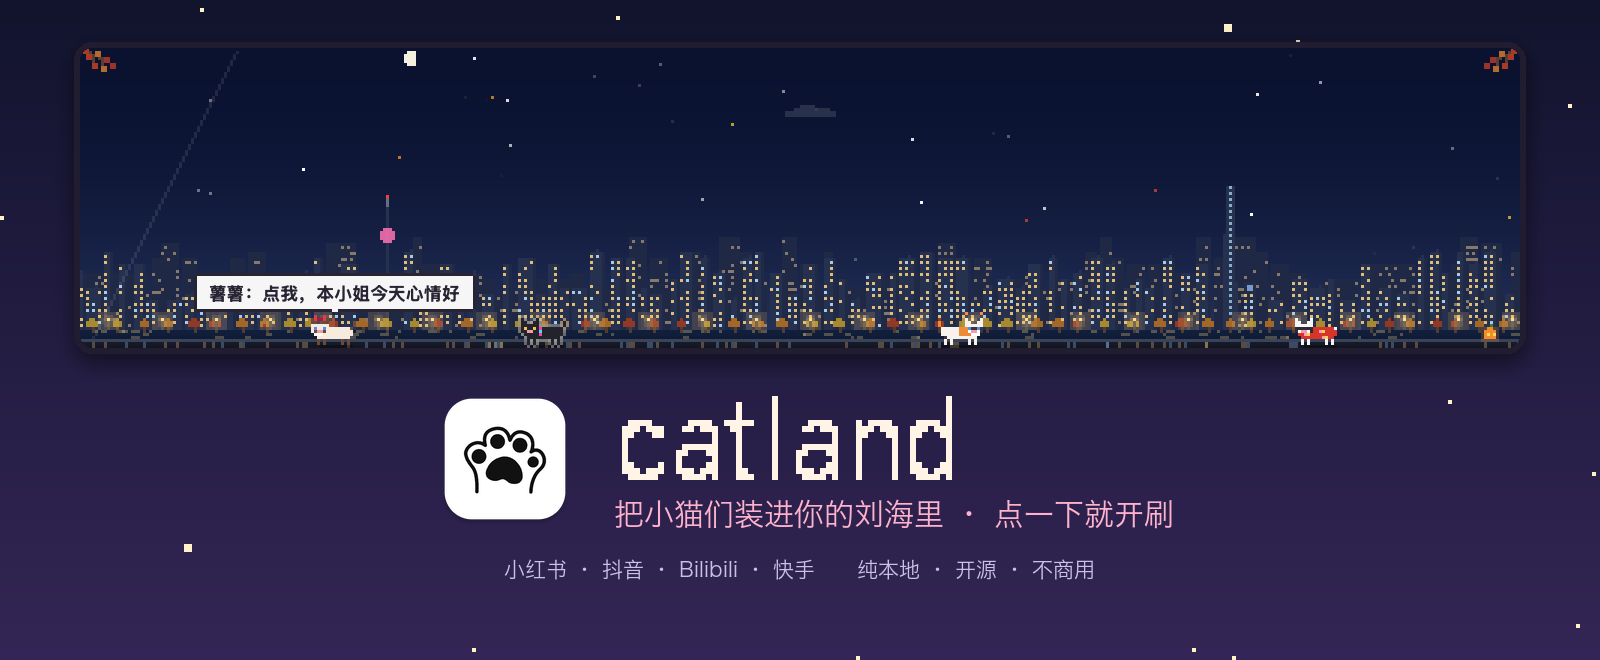
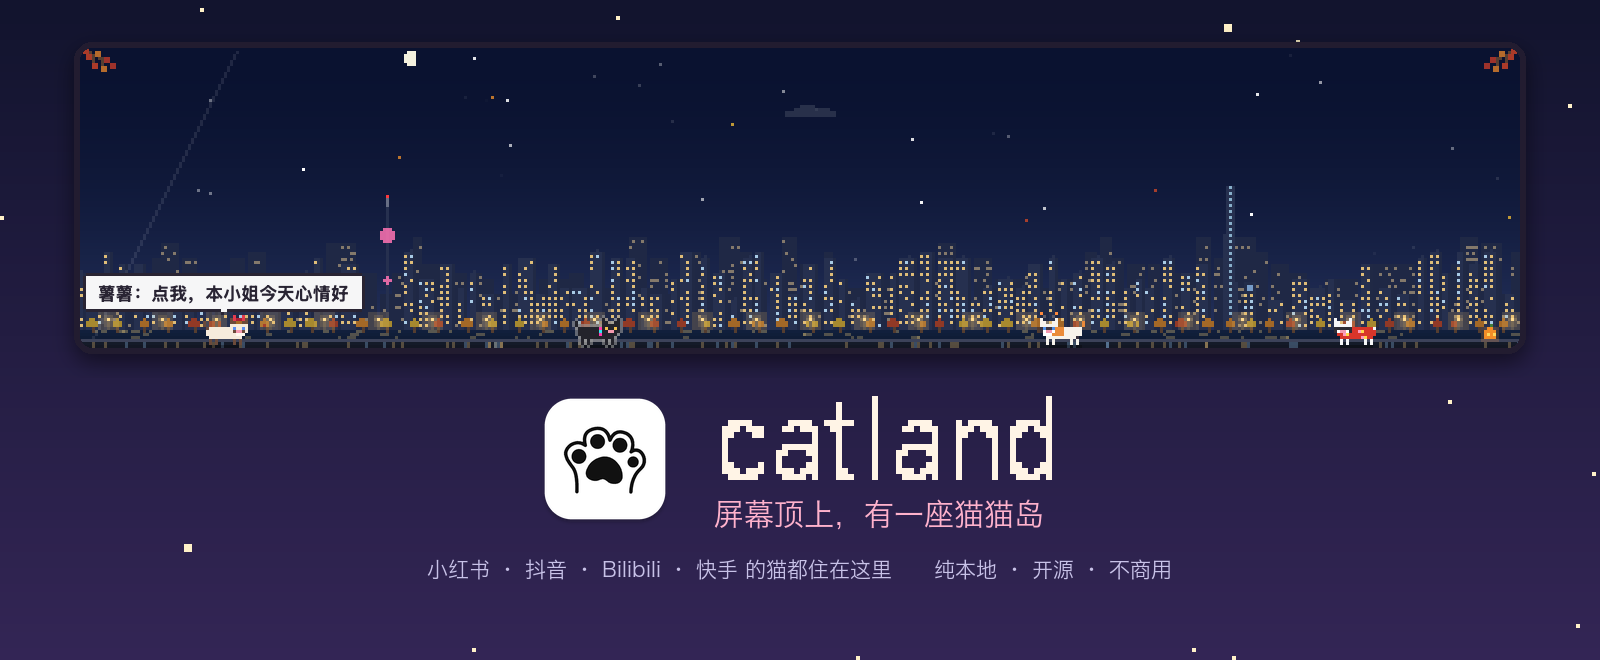
Rewrite the README as a story; seal 0.2.1
The README now opens with the moment it is for (eight minutes of build
time), introduces the cats as the island's residents, and drops the
feature-list tone and the notch wording in favour of the cat island.
Banner tagline and scene collage (now with Beijing) are refreshed.
Version 0.2.1 (build 5).

Generated with [Devin](https://devin.ai)

diff --git a/scripts/make_readme_art.py b/scripts/make_readme_art.py
@@ -78,7 +78,7 @@ def banner(snaps: Path) -> None:
     icon = Image.open(BRAND / "icon-1024.png").resize((150, 150), Image.LANCZOS)
     title = pixel_text("catland", 18, 6, CREAM + (255,))
     f_tag = ImageFont.truetype(CJK, 30)
-    tag = "把小猫们装进你的刘海里 · 点一下就开刷"
+    tag = "屏幕顶上，有一座猫猫岛"
     text_w = max(title.width, int(d.textlength(tag, font=f_tag)))
     x0 = (W - (icon.width + 30 + text_w)) // 2
     y0 = 18 + hero.height + 6
@@ -87,13 +87,13 @@ def banner(snaps: Path) -> None:
     img.alpha_composite(title, (tx, y0 + 6))
     d.text((tx + 4, y0 + 6 + title.height + 12), tag, font=f_tag, fill=PINK)
     f_sub = ImageFont.truetype(CJK, 21)
-    sub = "小红书 · 抖音 · Bilibili · 快手      纯本地 · 开源 · 不商用"
+    sub = "小红书 · 抖音 · Bilibili · 快手 的猫都住在这里      纯本地 · 开源 · 不商用"
     d.text(((W - d.textlength(sub, font=f_sub)) // 2, y0 + icon.height + 24), sub, font=f_sub, fill=LAVENDER)
     img.convert("RGB").save(BRAND / "banner.png", optimize=True)
 
 
 SCENES = [
-    ("autumn-afternoon", "秋日午后 · 上海"), ("dusk", "傍晚 · 天色渐暗"),
+    ("autumn-afternoon", "上海 · 秋日午后"), ("beijing-dusk", "北京 · 傍晚"),
     ("rain-night", "雨夜"), ("winter-snow", "冬天 · 下雪"),
     ("event-sakura", "事件 · 樱花雨"), ("event-meteor", "事件 · 流星雨"),
     ("event-fireworks", "事件 · 花火大会"), ("event-lightshow", "事件 · 滨海湾灯光秀"),

diff --git a/README.md b/README.md
@@ -1,135 +1,135 @@
 <div align="center">
 
-<img src="assets/brand/banner.png" width="100%" alt="catland — 把小猫们装进你的刘海里，点一下就开刷">
+<img src="assets/brand/banner.png" width="100%" alt="catland：屏幕顶上的猫猫岛">
 
 <br>
 
-**MacBook 的刘海，是你离摸鱼最近的地方。**<br>
-小红书 · 抖音 · Bilibili · 快手，点一下刘海就开刷。
+**屏幕顶上，有一座猫猫岛。**<br>
+岛上住着你常刷的那几只猫。累了，就点一下它们。
 
 <br>
 
-[![macOS](https://img.shields.io/badge/macOS-14%2B-000000?style=for-the-badge&logo=apple&logoColor=white)](#-下载安装)
-[![License: MIT](https://img.shields.io/badge/license-MIT-A6E3A1?style=for-the-badge)](LICENSE)
-[![Local First](https://img.shields.io/badge/数据-只在本机-F38BA8?style=for-the-badge)](#-隐私纯本地)
-[![Powered by catbus](https://img.shields.io/badge/powered%20by-catbus-FAB387?style=for-the-badge)](https://github.com/cv-cat/catbus)
-[![Agent Ready](https://img.shields.io/badge/AI%20Agent-可直接构建-CBA6F7?style=for-the-badge)](#-让-agent-帮你从源码构建)
+[![macOS](https://img.shields.io/badge/macOS-14%2B-000000?style=flat-square&logo=apple&logoColor=white)](#安装)
+[![License: MIT](https://img.shields.io/badge/license-MIT-A6E3A1?style=flat-square)](LICENSE)
+[![Local only](https://img.shields.io/badge/数据-只留在你的%20Mac-F38BA8?style=flat-square)](#你的东西只留在你的-mac-上)
+[![Powered by catbus](https://img.shields.io/badge/powered%20by-catbus-FAB387?style=flat-square)](https://github.com/cv-cat/catbus)
 
-[下载安装](#-下载安装) · [它能做什么](#-它能做什么) · [刘海里的小世界](#-刘海里的小世界) · [从源码构建](#-从源码构建) · [开发者文档](docs/development.md)
+[安装](#安装) · [岛上的居民](#岛上的居民) · [窗外的天](#窗外和你同一片天) · [从源码构建](#从源码构建) · [开发者文档](docs/development.md)
 
 </div>
 
 <br>
 
-> [catbus](https://github.com/cv-cat/catbus)（猫巴士）把各个平台的小猫装上同一辆车；**catland 把它们放进同一片 land**——你 MacBook 屏幕顶上的那块刘海（land 也谐音 is**land**，灵动岛）。
->
-> 写代码等编译、跑模型等结果、开会等别人说完……这些碎片时间里，你不想拿起手机、不想切窗口、更不想一个个打开 App。**鼠标往刘海上一放，点一下，就开刷。**
+下午三点，编译还要跑八分钟。
 
-## ✨ 它能做什么
+你不想拿手机，一拿起来就是半小时；也不想切到浏览器，那一排标签页只会提醒你还有多少事没做完。你只是想喘口气。
 
-<table>
-<tr>
-<td width="50%" valign="top">
+于是你把鼠标往屏幕顶上轻轻一推。
 
-### 🐾 刘海就是入口
-平时刘海里是一面像素风落地窗：窗外是你所在城市的天际线，你接入的平台小猫在窗台上散步、打盹、钻进刘海里的「猫洞」。鼠标移上去小猫会蹦一下跟你打招呼，**点一下就展开成刷刷面板**，再点外面就收起。老板来了？`⌥ Esc` 一键收起并暂停。
+那里有一座小岛。窗外是你所在城市此刻的天色，四只猫在窗台上晒太阳，有一只正在舔爪子。戴蝴蝶结的布偶猫抬眼看你：
 
-</td>
-<td width="50%" valign="top">
+> 薯薯：还不点？品味有待提高哦
 
-### 📱 多平台混排，手感对标短视频 App
-小红书、抖音、Bilibili、快手的推荐流混在一条流里，**各平台均匀轮换（同一平台最多连着 3 条）、看过的不再出现**。封面先行、前后条预加载，划到下一条几乎零等待；触控板一滑一页，进度条可以拖动跳转，图集左右翻页，评论抽屉一点就开。某个平台被限流了？它悄悄歇一会儿，你照常刷别的。
+点一下，小岛展开。小红书、抖音、Bilibili、快手的推荐揉成一条，一条一条往下刷。八分钟后编译跑完，你点一下别处，小岛收回去，什么都没发生过。
 
-</td>
-</tr>
-<tr>
-<td width="50%" valign="top">
+这就是 catland。
 
-### ❤ 点赞收藏只留在本地
-在 catland 里点赞、收藏，**不会回写到原平台**，不会被推荐算法拿去「更懂你」，也不会出现在你的主页。所有平台的喜欢，收在同一个地方。
+<br>
 
-</td>
-<td width="50%" valign="top">
-
-### 🔒 纯本地，没有服务器
-没有 catland 账号、没有云端、没有遥测。登录态在你 Mac 的 `~/.catbus/`，点赞 / 收藏 / 历史在本机数据库，App 和本地服务之间连网络端口都不开。
-
-</td>
-</tr>
-</table>
-
-## 🐱 每个平台一只猫
+## 岛上的居民
 
 <div align="center">
-<img src="assets/brand/cats.png" width="88%" alt="平台小猫：薯薯、抖抖、bibi、铁铁和纸箱里的箱箱">
+<img src="assets/brand/cats.png" width="92%" alt="薯薯、抖抖、bibi、铁铁，和纸箱里的箱箱">
 </div>
 
-接入哪个平台，它的猫就住进你的刘海；看一眼刘海，就知道哪些平台连着：
+你接入一个平台，就有一只猫搬上岛。
 
-- **薯薯**（小红书）：戴红蝴蝶结的布偶猫，精致又毒舌——「老板画的饼，本小姐不吃」
-- **抖抖**（抖音）：戴酷炫项圈的黑猫，潮酷上头——「家人们谁懂啊，又上头了」
-- **bibi**（Bilibili）：顶着小电视天线的三花猫，傲娇二次元——「才、才不是想让你点我」
-- **铁铁**（快手）：穿花棉袄的奶牛猫，豪爽东北大姐——「老板画饼？大姐给你烙个真的」
-- **箱箱**：还一个平台都没接时，纸箱里只有这只小奶猫，等你把大家领回家；接上第一个平台，她会开心地蹦一下
+- **薯薯**，小红书家的布偶猫，头上一只红蝴蝶结。精致，嘴巴有点毒，看到好东西还是会第一个分享给你。「老板画的饼，本小姐不吃。」
+- **抖抖**，抖音家的黑猫，戴一条会发光的项圈。什么梗都知道，什么 BGM 都会哼。「家人们谁懂啊，又上头了。」
+- **bibi**，Bilibili 家的三花，脑袋上顶着两根小电视天线。嘴硬心软，熬夜追番。「才、才不是想让你点我。」
+- **铁铁**，快手家的奶牛猫，常年一件东北花棉袄。嗓门大，热心肠，护短。「老板画饼？大姐给你烙个真的。」
 
-平台被风控时，它的猫会趴下打盹冒 zzz（「我累了，休息一会儿再来」），恢复后自己醒来；登录失效或断开，它就不在刘海里了。
+一个平台都还没接的时候，岛上只有**箱箱**，一只缩在纸箱里的小奶猫，扒着箱沿等你把大家接回来。等第一只猫搬上岛，她会在箱子里开心地蹦一下。
 
-## 🌆 刘海里的小世界
+看一眼小岛，你就知道哪个平台还连着：谁被平台限流了，谁就趴下打盹，头上冒 zzz，过一会儿自己醒来；谁的登录过期了，谁就暂时不在岛上。
 
-刘海不只是入口，也是一个会陪你上班的小世界。我们把天气、季节、节日、彩蛋、事件统称为**表现层**，全部手绘像素风：
+它们还会跟你聊天。鼠标停在岛上，猫们轮流开口，各说各的：
+
+> 铁铁：今天活儿干了 63%，麻溜的<br>
+> bibi：这么晚了，快睡啦笨蛋<br>
+> 薯薯：还有 3 天发工资，忍住别剁手<br>
+> 抖抖：最后一条，真的最后一条
+
+## 刷起来是什么感觉
+
+和你在手机上刷短视频一样，只是不用抬头。
+
+几个平台的推荐流混在一起，轮着来，同一个平台最多连着刷到三条；看过的不会再出现。下一条早在你看上一条的时候就准备好了，划过去几乎不用等。触控板一滑就是一页，视频的进度条可以拖，暂停时能看到播到哪儿了；图文笔记左右翻页，评论一点就开。
+
+某个平台突然不给内容了，你不会看到报错。那只猫去打个盹，你照常刷其他平台的，等它恢复，它的内容会自己回来。
+
+老板走过来时，按 `⌥ Esc`。小岛立刻收起，视频暂停。
+
+## 窗外，和你同一片天
 
 <div align="center">
-<img src="assets/brand/scenes.png" width="88%" alt="刘海里的场景：四季、昼夜、天气与事件">
+<img src="assets/brand/scenes.png" width="92%" alt="小岛窗外的四季、昼夜、天气和夜空里的事件">
 </div>
 
-- **跟你同一片天**：用 Mac 的系统定位（不看 IP，挂 VPN 也准），窗外的日出日落、晴雨雪雾跟你所在城市一致；上海能看到东方明珠，新加坡能看到金沙和摩天轮。
-- **四季会变**：春天飘樱花、夏夜有萤火虫、秋天落叶、冬天窗户结霜、挂满冰凌。
-- **节日有仪式感**：春节挂红灯笼、中秋一整晚的金色满月、万圣节南瓜灯、圣诞彩灯。
-- **会发生大事件**：真实流星雨极大日的流星雨、夏夜花火大会、滨海湾灯光秀、樱花雨、热气球节……**小猫会提前 6 小时预告**，事件开始时大家一起坐下来看窗外。
-- **随机彩蛋**：雨天海湾里漂着纸船，工作日上午窗台上有杯冒热气的咖啡，偶尔……会有 UFO。
-- **懂你的猫**：悬停刘海，小猫们轮流用自己的口吻跟你聊两句——「铁铁：今天活儿干了 63%，麻溜的」「bibi：这么晚了，快睡啦笨蛋」「薯薯：还有 3 天发工资，忍住别剁手」。
+小岛的窗外不是一张壁纸。
 
-## 📦 下载安装
+太阳什么时候落、外面是晴是雨，都跟你所在的城市一致。位置用的是 Mac 的系统定位，挂着 VPN 也不会把你算到别的国家去。在北京，窗外是央视大楼和中国尊；在上海，是东方明珠和上海中心；在新加坡，是金沙酒店和摩天轮。其他城市的朋友，岛上会随机住进北京或上海的天际线，天色和天气还是你那里的。
 
-1. 到 [Releases](https://github.com/Aries-ld/catland/releases) 下载对应芯片的 DMG：
-   - Apple 芯片（M1 / M2 / M3 / M4…）：`catland-x.y.z-macos-arm64.dmg`
-   - Intel 芯片：暂未提供安装包，请按下面的「从源码构建」在本机打包
-2. 打开 DMG，把 **catland** 拖进「应用程序」。
-3. 在「应用程序」里打开 catland。安装包经过 Apple 开发者签名与公证，和其他正规 App 一样双击即可打开。
-4. 打开后刘海里会出现小猫。点一下刘海 → **连接平台**：
-   - 小红书、Bilibili、快手：用手机 App 扫码。
-   - 抖音：在弹出的抖音官方登录页里扫码或用验证码登录，完成后自动连接。
+窗外跟着季节换衣服：春天飘樱花，夏夜有萤火虫，秋天的树一点点变红，冬天窗角结霜、挂冰凌。春节挂灯笼，中秋有一整晚的满月。
 
-> App 里已经自带运行所需的一切（Node 运行时、本地服务、catbus），不需要另外安装任何东西。需要 macOS 14 及以上，带刘海的 MacBook 体验最好；没有刘海的 Mac 也能用，小猫会住在屏幕顶部正中。
+偶尔，天上会有事情发生：真实流星雨极大日那晚的流星雨、夏夜的花火大会、滨海湾的灯光秀。猫们会提前几个小时告诉你「今晚 22:00 有流星雨哦」，到了时间，它们会停下手里的事，一起坐着看窗外。
 
-## ⌨ 快捷键
+还有一些不会提前说的小事。雨天的海湾里漂着一只纸船；工作日的上午，窗台上放着一杯冒热气的咖啡；运气好的话，你会看见 UFO。
 
-| 操作 | 方式 |
+## 你的东西，只留在你的 Mac 上
+
+catland 没有服务器，不需要注册账号，不收集任何数据。
+
+你在 catland 里点的赞、收藏的视频，只存在你自己的电脑里，不会同步回原来的平台，不会被拿去训练推荐，也不会出现在你的主页上。所有平台的「喜欢」，都收在同一个地方。
+
+你的平台登录信息保存在本机的 `~/.catbus/`。catland 对外只连你接入的平台；唯一的例外是窗外的天气，查询时只发送精确到约 10 公里的坐标，不想要可以在设置里关掉。
+
+## 安装
+
+1. 到 [Releases](https://github.com/Aries-ld/catland/releases/latest) 下载 `catland-x.y.z-macos-arm64.dmg`（Apple 芯片）。Intel 芯片的 Mac 暂时没有安装包，可以按下面的步骤[从源码构建](#从源码构建)。
+2. 打开 DMG，把 catland 拖进「应用程序」。安装包经过 Apple 签名和公证，双击就能打开。
+3. 屏幕顶上会出现箱箱。点一下她，选「连接平台」：
+   - 小红书、Bilibili、快手：用手机 App 扫一下二维码。
+   - 抖音：在弹出的抖音官方页面里扫码或用验证码登录。
+
+需要 macOS 14 或更新的系统。App 已经带好了运行需要的一切，不用另外装任何东西。在 MacBook 上，小岛就长在屏幕顶端摄像头的两侧；外接显示器和其他 Mac 上，它住在屏幕顶部正中间。
+
+### 快捷键
+
+| 做什么 | 怎么做 |
 |---|---|
-| 呼出 / 收起 | 点刘海，或 `⌥ \`` |
-| 老板键 | `⌥ Esc`：立刻收起并暂停 |
-| 翻页 | 触控板上下滑、鼠标滚轮、`↑` `↓` / `J` `K` |
-| 图集翻页 | 触控板左右滑、`←` `→` |
-| 点赞 / 收藏 / 评论 | 双击画面或 `L` / `S` / `C` |
+| 打开 / 收起小岛 | 点一下，或 `⌥ \`` |
+| 老板来了 | `⌥ Esc`，立刻收起并暂停 |
+| 下一条 / 上一条 | 触控板上下滑、滚轮、`↑` `↓` 或 `J` `K` |
+| 图集翻页 | 触控板左右滑、左右拖动、`←` `→` |
+| 点赞 / 收藏 / 评论 | 双击画面，或 `L` / `S` / `C` |
 | 暂停 / 静音 | `空格` / `M`（默认静音） |
 
-## 🧩 支持的平台
+### 现在能接哪些平台
 
-| 平台 | 登录方式 | 状态 |
+| 平台 | 怎么登录 | 状态 |
 |---|---|---|
-| 小红书 | 扫码 | ✅ 已实测 |
-| Bilibili | 扫码 | ✅ 已实测 |
-| 抖音 | 官方登录页（扫码 / 验证码） | ✅ 已实测 |
-| 快手 | 扫码 | ✅ 已实测 |
-| 微博 | — | ⏸ 暂未开放：catbus 还不支持微博推荐流，能登录但刷不出内容 |
-| X · TikTok | — | ⏸ 暂未开放：很多账号用 Google / Apple 登录，而这两家不允许在 App 内登录（TikTok 还需要特定网络）。等「浏览器助手」能把浏览器里的登录态自动交给 catland 后再开放 |
-| 淘宝 · 京东 · 闲鱼 | — | 🚧 电商比价，下个版本 |
+| 小红书 | 扫码 | 可用 |
+| Bilibili | 扫码 | 可用 |
+| 快手 | 扫码 | 可用 |
+| 抖音 | 官方页面扫码或验证码 | 可用 |
+| 微博 | | 暂未开放：catbus 还拿不到微博的推荐流 |
+| X、TikTok | | 暂未开放：Google / Apple 账号没法在 App 里登录，正在做浏览器助手 |
+| 淘宝、京东、闲鱼 | | 下一个版本：跨平台搜商品、比价 |
 
-平台能力来自 [catbus](https://github.com/cv-cat/catbus)，它支持的平台 catland 都可以逐步接进来。
+## 从源码构建
 
-## 🛠 从源码构建
-
-不想用打包好的 DMG，或者想自己改？在你的 Mac 上几分钟就能构建：
+想自己改，或者用的是 Intel 芯片的 Mac？几分钟就能在本机构建：
 
 ```bash
 # 准备（只需一次）：Xcode 16+、Homebrew
@@ -137,51 +137,42 @@ brew install node xcodegen             # Node 需要 26 及以上
 git clone https://github.com/Aries-ld/catland.git && cd catland
 (cd apps/sidecar && npm install)
 
-# 方式一：直接运行开发版
+# 直接运行开发版
 apps/macos/scripts/run.sh
 
-# 方式二：打包成和 Releases 一样的 DMG（产物在 dist/）
+# 或者打包成和 Releases 一样的 DMG（产物在 dist/）
 scripts/package-dmg.sh
 ```
 
-### 🤖 让 Agent 帮你从源码构建
-
-把下面这段话直接发给 Claude Code / Codex / Cursor 等编码 Agent 就行：
+也可以把下面这段话交给 Claude Code、Codex、Cursor 这类编码助手，让它替你做：
 
 ```text
 请在我的 Mac 上从源码构建并安装 catland（https://github.com/Aries-ld/catland）：
 1. 确认已安装 Xcode 16+；用 Homebrew 安装 node（26 及以上）和 xcodegen。
 2. 克隆仓库，在 apps/sidecar 里执行 npm install。
 3. 在仓库根目录执行 scripts/package-dmg.sh，按我的芯片架构打包 DMG（产物在 dist/）。
-4. 挂载 DMG，把 Catland.app 拷到 /Applications，执行 xattr -dr com.apple.quarantine /Applications/Catland.app，然后打开它。
+4. 挂载 DMG，把 Catland.app 拷到 /Applications 并打开它。
 仓库里的 AGENTS.md 和 docs/development.md 有项目约定和更多命令。
 ```
 
-## 🔒 隐私：纯本地
+## 几句要说清楚的
 
-- **没有 catland 服务器、账号、统计或崩溃上报。**
-- 网络请求只发往你连接的平台；唯一的例外是窗外天气：新加坡用 NEA，其他地区用 Open-Meteo，只发送约 10 km 精度的坐标，设置里可以关掉。
-- 登录态保存在 `~/.catbus/`，本地数据在 `~/Library/Application Support/catland/`，日志在 `~/Library/Logs/catland/`（会自动打码 cookie、token）。
-- 网页登录用的是一次性的隔离浏览器环境，窗口关闭即清空；catland 不读取你浏览器里保存的任何数据。
+- catland 是一个开源的个人项目，**仅供学习研究，不做任何商业用途**。内容来自各平台的公开接口（通过 catbus），请遵守各平台的用户协议，不要高频请求。
+- 各平台的名称和图标属于它们各自的所有者，这里只用来标明内容来源，catland 与这些平台没有任何关系。
+- catland 不会替你在平台上点赞、评论、关注或发布任何东西。
 
-## ⚠ 声明
+## 接下来
 
-- 本项目**仅供学习研究，不商用**。内容来自各平台公开接口（经 catbus），请遵守各平台的用户协议，合理使用、不要高频请求。
-- 各平台名称与图标归其所有者所有，本项目仅用于标识内容来源，与这些平台无任何关联。
-- catland 不会代你在平台上点赞、评论、关注或发布；这些写操作容易触发平台风控，默认不调用。
+- 电商：在淘宝、京东、闲鱼之间一起搜商品、比价格
+- 一个浏览器助手，让 X、TikTok 也能住进岛上
+- 更多城市的窗外，更多会在夜里发生的事
+- 导出和导入你的本地收藏
 
-## 🗺 接下来
+## 谢谢
 
-- [ ] 电商板块：淘宝 / 京东 / 闲鱼商品搜索与跨平台比价
-- [ ] 宣传视频与动图演示
-- [ ] 更多城市的窗外地标与地貌（北京、深圳、东京、纽约……），更多事件与彩蛋
-- [ ] 本地数据导出 / 导入
-
-## 🙏 致谢
-
-- [catbus](https://github.com/cv-cat/catbus) 与作者 [cv-cat](https://github.com/cv-cat)：catland 的全部平台能力都来自这辆猫巴士。
-- 所有在工位上偷偷看刘海的打工人。🐱
+- [catbus](https://github.com/cv-cat/catbus) 和它的作者 [cv-cat](https://github.com/cv-cat)。catbus 是一辆把各个平台的小猫装在一起的猫巴士，catland 是它们下车以后住的那座小岛。
+- 每一个在工位上，想偷偷喘口气的人。
 
 <div align="center">
-<sub>MIT License · Made with 🐾 for every tired worker</sub>
+<sub>MIT License</sub>
 </div>

diff --git a/docs/decisions/0003-presentation-layer.md b/docs/decisions/0003-presentation-layer.md
@@ -40,7 +40,7 @@ apps/macos/Catland/Presentation/
 | 新图层 | 实现 `SceneLayer`，在 `Presentation.layers` 登记 |
 | 新天气 | `WeatherStyle.table` 加一行；需要专属画面时加一个 `WeatherEffect` 到 `WeatherEffects.all`；sidecar 的 `classify` / `classifyWmo` 产出该 condition |
 | 调整季节表现 | `SeasonStyle.of` 改对应季节 |
-| 新城市地标 | 实现 `Landmark` 加进 `Landmarks.all`；`Skyline` 里登记城市坐标 |
+| 新城市地标 | 实现 `Landmark` 加进 `Landmarks.all`；`Skyline` 里登记城市坐标和名字（现有新加坡、上海、北京；不在这些城市 120km 内时，窗外随机选定北京或上海并记住，天气和时间仍跟随真实所在地） |
 | 新节日 | `HolidayCatalog.all` 加 `HolidayDef`（日期、地区、是否放假、装饰窗口与绘制） |
 | 新彩蛋 | 实现 `SceneEgg` 加进 `Eggs.all` |
 | 新事件 | 实现 `SceneEvent`（排期 `start(on:)`、天气门槛 `canRun`、`draw`、预告 / 进行中 / 取消文案）加进 `Events.all` |
